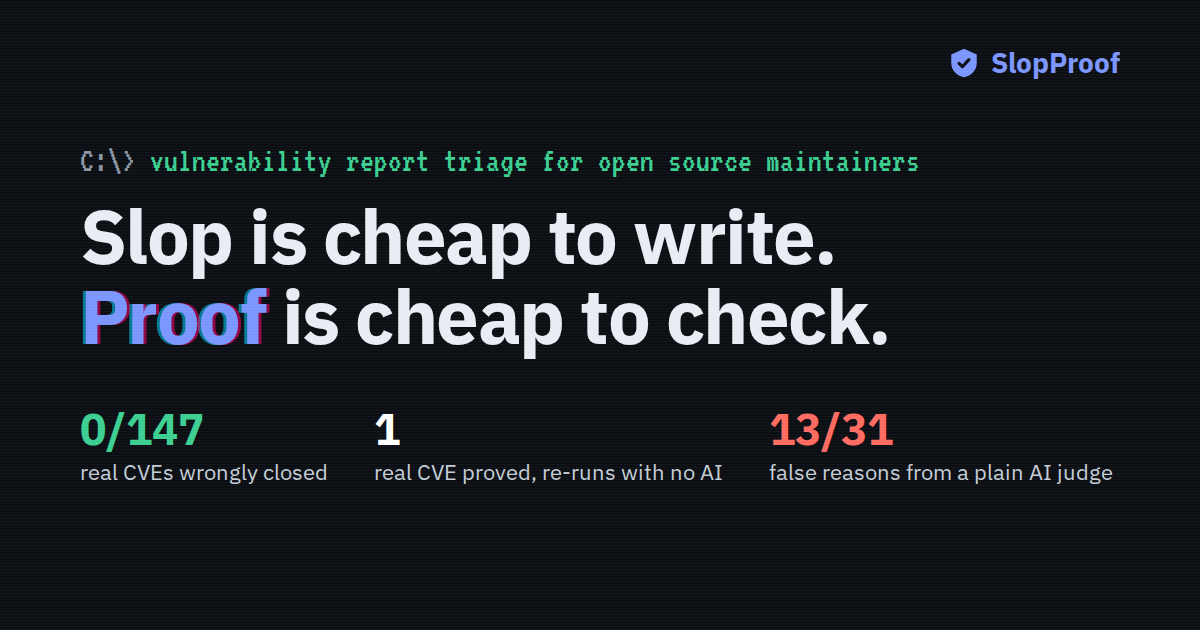
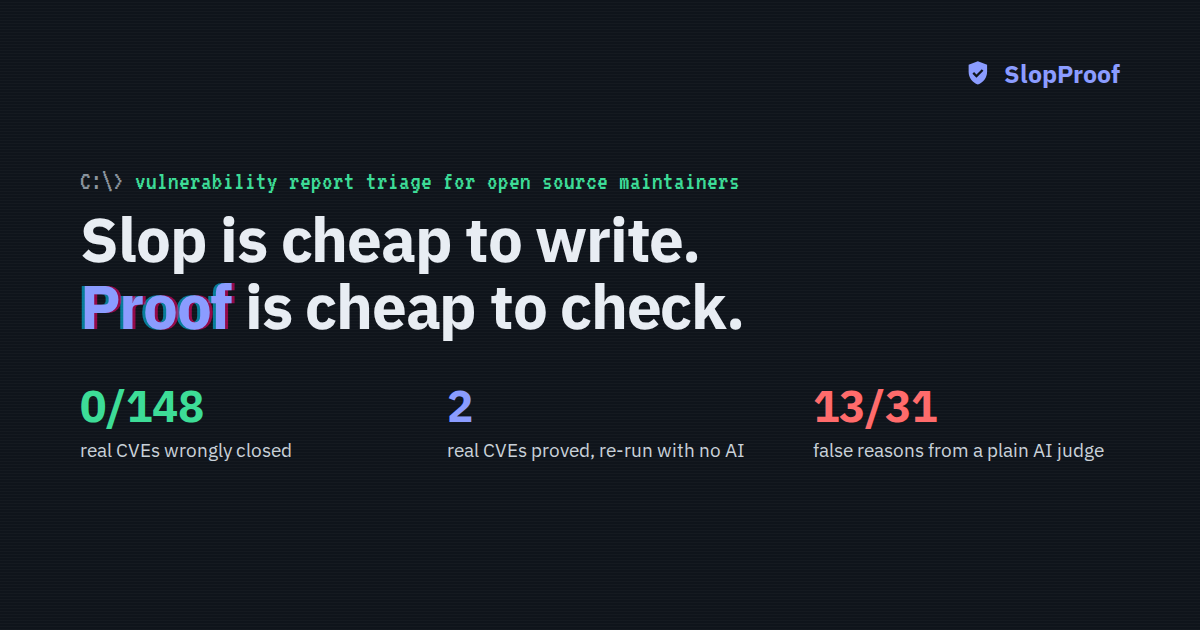
Update video script to the final cut and refresh og image with final numbers

diff --git a/docs/video_script.md b/docs/video_script.md
@@ -1,41 +1,59 @@
-# Demo video script (target 2:45, hard limit 3:00)
+# Demo video script (final cut 2:53, hard limit 3:00)
 
-Screen recording of the web app, voice or captions. Numbers are from the current benchmark; update after the
-final runs.
+Lead with proof, not "AI triages bug reports". Real screen footage of https://slopproof.aether-soft.tech, voice
+narration with burned-in captions, no music (a quiet self-synthesised tone bed only). No new paid runs: the gin
+report is the recorded run of the home page's "run one live" sample, replayed at the pace it was recorded.
 
-## 0:00–0:20 Problem
-Screen: curl's public list of AI-slop reports, then a news line about curl ending its bug bounty.
-> In 2026 curl shut down its bug bounty. AI made fake vulnerability reports almost free to write, and each one
-> still costs a maintainer hours to disprove. Guessing from the wording is not enough: many real CVEs this year
-> were found with AI too.
+## 0:00–0:08 Hook
+Screen: the CONFIRMED stamp of #3735184 (proof sha chip), then the VERIFIED_AND_FIXED seal on the Proofs page.
+> Most AI triage asks you to trust the AI. SlopProof gives you proof you can re-run, without AI.
 
-## 0:20–0:35 What SlopProof does
-Screen: How it works tab (pipeline).
-> SlopProof checks a report instead of judging its style. It checks every claim against the project's real code on
-> the day of the report, checks every reference on the live web, and then lets an NVIDIA Nemotron agent try to
-> reproduce the bug in a locked-down sandbox.
+## 0:08–0:29 Problem and what it does
+Screen: home page (hero, headline numbers), pan down to "What happens to a report".
+> AI made fake vulnerability reports almost free to write, and each one still costs a maintainer hours to
+> disprove. In 2026, curl shut down its bug bounty.
+> SlopProof checks the report, not its style: the claims against the real code, the references on the web, and
+> real-looking bugs in a sandbox.
 
-## 0:35–1:20 Live: a slop report
-Screen: paste a slop report URL, stages fill in live.
-> This report claims a buffer overflow in curl's WebSocket code. Nemotron Lightning pulls out the claims.
-> The quoted code is checked line by line against the real file: here is the diff. Tavily checks the cited sources.
-> Nemotron Ultra reads the real code: the bounds check two lines earlier makes this impossible.
-> Verdict: not reproduced, with file and line, and a polite reply the maintainer can paste. About two cents.
+## 0:29–1:24 One report, paste to verdict, nothing cut
+Screen: paste the invented gin report (repo, title, body) into the form; then its recorded run, replayed at real
+speed (32 s): stages light up, the claim check expands, the FABRICATED stamp lands with the 95% ring and the
+`context.go:412` chip, then the evidence list and the suggested reply. On-screen badge: "Recorded run of this
+report · replayed at real speed".
+> Here is a report written like AI slop: a heap overflow in gin's Context.Query(). This is SlopProof's recorded run
+> of it, replayed at real speed.
+> Nemotron 3.5 Lightning extracts the claims, and each is checked against gin's real source. parseQueryBuffer()
+> does not exist, and the quoted code is nowhere in the codebase.
+> Tavily checks the web, Nemotron 3 Super reads it, and Nemotron 3 Ultra reads the real code.
+> Verdict: FABRICATED, 95% confidence. Line 412 of context.go is just a closing brace.
+> Every reason cites a checked fact, with a reply ready to paste. 32 seconds, 2 cents.
 
-## 1:20–1:55 Sandbox: a real CVE
-Screen: replay of report #3735184, terminal stage.
-> Now a real report: curl sends a .netrc password for the wrong user. The report names no code, so code search
-> finds it: override_login in lib/url.c. The agent builds curl with AddressSanitizer, writes a test through the
-> real command line, and reproduces the leak in 161 seconds, for 31 cents. Confirmed.
+## 1:24–1:54 Proof bundle
+Screen: replay of #3735184 (CONFIRMED stamp lands), then Proofs page: commit + check command, the
+VERIFIED_AND_FIXED seal, reported commit "bug present" vs fix commit "bug gone".
+> Real bugs get more than a verdict. For curl's .netrc password leak, a Nemotron agent built curl with
+> AddressSanitizer, in a sandbox with no network, and reproduced it.
+> That run becomes a proof bundle: a pinned commit, a test, and one check command. Re-run from scratch: bug present
+> at the reported commit, gone at curl's fix. No AI in the loop.
+> The fix commit is the negative control: a check that never fails proves nothing.
 
-## 1:55–2:30 Benchmark and baseline
-Screen: Benchmark tab, comparison table, the false-statements list.
-> We replayed 197 public curl reports, each as of the day it was filed. Zero of 148 real CVE reports were
-> wrongly closed. 21 of 49 slop reports are closed with evidence, and 38 of 49 are closed or moved to the bottom.
-> Why not just ask a model "is this slop?" We tried. It closes more, but 13 of its 31 reasons are false:
-> it says lib/ws.c does not exist. That is answering slop with slop.
+## 1:54–2:10 Plain-model baseline
+Screen: Benchmark scoreboard, then the baseline's false statements (#2298307 "lib/ws.c does not exist").
+> Why not just ask a model "is this slop?" Same Nemotron, text only: 13 of its 31 closing reasons are false. It
+> says lib/ws.c does not exist. That is answering slop with slop.
 
-## 2:30–2:45 Close
-Screen: GitHub Action comment on an issue, then the repo.
-> Every model call runs on NVIDIA Nemotron through Nebius Token Factory, with Tavily for the web. It runs as a web
-> app, a CLI or a GitHub Action, and it is open source. Proof, not vibes.
+## 2:10–2:28 Numbers
+Screen: Benchmark stat tiles and scoreboard.
+> We replayed 197 curl reports, as of their filing dates. 0 of 148 real CVEs wrongly closed. 21 of 49 slop reports
+> closed, with checked evidence. 2 real CVEs proved. About $0.065 a report.
+
+## 2:28–2:38 Beyond curl
+Screen: Benchmark "Beyond curl" (requests, gin, express, fluent-bit).
+> Beyond curl, it ran live on requests, gin, express and fluent-bit, and the code checks parse C, Python, Go,
+> JavaScript and Rust.
+
+## 2:38–2:53 Close
+Screen: end card: NVIDIA Nemotron 3.5 Lightning · 3 Super · 3 Ultra via Nebius Token Factory · Tavily,
+https://slopproof.aether-soft.tech, github.com/premanand8800/slopproof.
+> Every model call runs on NVIDIA Nemotron (3.5 Lightning, 3 Super, 3 Ultra) through Nebius Token Factory, with
+> Tavily for the web. SlopProof is open source. Proof, not vibes.
